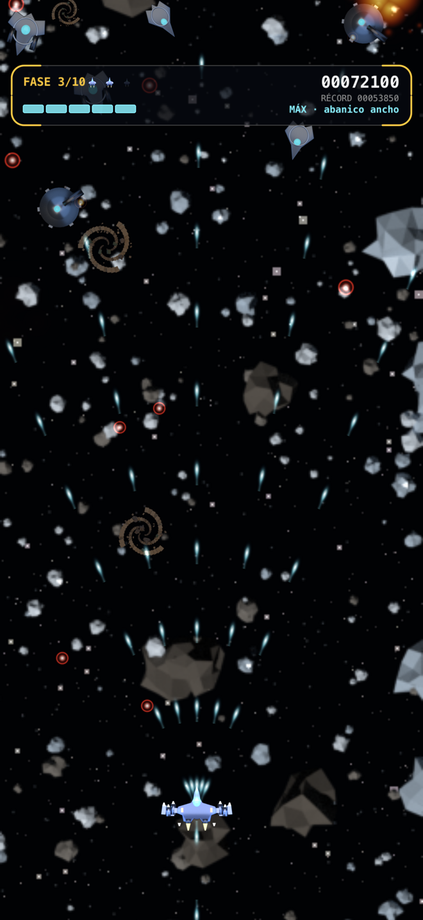
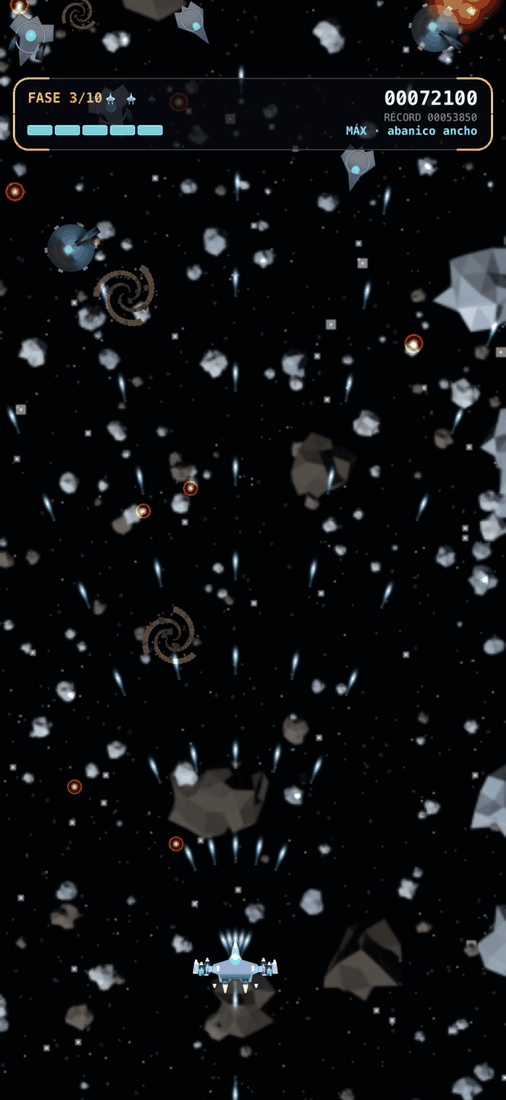
Franja de App Store en la portada y contadores al día

diff --git a/index.html b/index.html
@@ -156,7 +156,7 @@
   <div class="wrap">
     <div class="titulo-seccion rev">
       <h2>Mis apps</h2>
-      <p>Seis formas distintas de usar tu móvil sin regalar tus datos. Entra en cualquiera — y si te va la técnica, cada una esconde una sección "para curiosos" con sus tripas.</p>
+      <p>Ocho formas distintas de usar tu móvil sin regalar tus datos. Entra en cualquiera — y si te va la técnica, cada una esconde una sección "para curiosos" con sus tripas.</p>
     </div>
     <div class="apps-grid">
 
@@ -267,6 +267,55 @@
   </div>
 </section>
 
+<!-- Franja "en la App Store". Va SEPARADA de la vitrina a propósito: la vitrina
+     lleva a mis propias fichas, esta lleva a la tienda, que es lo que prueba que
+     están publicadas de verdad. Aquí solo salen las siete del App Store — MuSeA
+     (Mac, fuera de la tienda) y Gemelos (web) no, porque quien pinchara las
+     buscaría en el App Store y no las encontraría. Los enlaces usan la forma
+     corta apps.apple.com/app/idXXXX, que redirige a la tienda del visitante. -->
+<section class="tienda" id="appstore">
+  <div class="wrap">
+    <div class="titulo-seccion rev">
+      <h2>Las siete, en la App Store</h2>
+      <p>Publicadas bajo mi nombre y todas gratuitas. Este es el listado oficial de Apple, no el mío.</p>
+    </div>
+    <div class="tienda-rejilla rev">
+        <a href="https://apps.apple.com/app/id6774833296" target="_blank" rel="noopener">
+          <img src="https://is1-ssl.mzstatic.com/image/thumb/Purple211/v4/8e/40/7a/8e407a4f-9acc-58d7-32d8-238d1193bee2/AppIcon-0-0-1x_U007ephone-0-1-85-220.png/128x128bb.jpg" alt="SyntheticMind" loading="lazy">
+          <span>SyntheticMind</span>
+        </a>
+        <a href="https://apps.apple.com/app/id6748546482" target="_blank" rel="noopener">
+          <img src="https://is1-ssl.mzstatic.com/image/thumb/Purple211/v4/b8/6d/ca/b86dca0c-19b8-f1c6-e2ab-cde97e799351/AppIcon-0-0-1x_U007epad-0-1-85-220.png/128x128bb.jpg" alt="NeuroVocal Studio" loading="lazy">
+          <span>NeuroVocal Studio</span>
+        </a>
+        <a href="https://apps.apple.com/app/id6761835018" target="_blank" rel="noopener">
+          <img src="https://is1-ssl.mzstatic.com/image/thumb/Purple211/v4/a7/39/cf/a739cf47-2b2b-734f-2761-186f62d339f5/AppIcon-0-0-1x_U007epad-0-1-85-220.png/128x128bb.jpg" alt="VoiceCoachAI" loading="lazy">
+          <span>VoiceCoachAI</span>
+        </a>
+        <a href="https://apps.apple.com/app/id6756328613" target="_blank" rel="noopener">
+          <img src="https://is1-ssl.mzstatic.com/image/thumb/Purple211/v4/61/b1/4f/61b14f1b-1e18-7cfd-af2a-4382b732e5a4/AppIcon-0-0-1x_U007epad-0-1-85-220.png/128x128bb.jpg" alt="NeoBlob" loading="lazy">
+          <span>NeoBlob</span>
+        </a>
+        <a href="https://apps.apple.com/app/id6768053282" target="_blank" rel="noopener">
+          <img src="https://is1-ssl.mzstatic.com/image/thumb/Purple221/v4/1c/1c/a9/1c1ca937-e7cb-6a88-bb3a-62b5ebc5504b/AppIcon-0-0-1x_U007epad-0-1-85-220.png/128x128bb.jpg" alt="NeonPulse" loading="lazy">
+          <span>NeonPulse</span>
+        </a>
+        <a href="https://apps.apple.com/app/id6795356219" target="_blank" rel="noopener">
+          <img src="img/salonrecreativo-icon.png" alt="Salón Recreativo" loading="lazy">
+          <span>Salón Recreativo</span>
+        </a>
+        <a href="https://apps.apple.com/app/id6810407525" target="_blank" rel="noopener">
+          <img src="img/cruzdeaguila-icon.png" alt="Cruz de Águila" loading="lazy">
+          <span>Cruz de Águila</span>
+        </a>
+    </div>
+    <div class="tienda-pie rev">
+      <a class="btn btn-primary" href="https://apps.apple.com/developer/roberto-blanco-gomez/id1824789786" target="_blank" rel="noopener">Ver mi página de desarrollador</a>
+      <span>Se abre en la App Store de tu país.</span>
+    </div>
+  </div>
+</section>
+
 <section class="plana" id="servicios">
   <div class="orbe" style="width:460px;height:460px;background:var(--verde);top:120px;left:35%"></div>
   <div class="wrap">
@@ -281,7 +330,7 @@
       </div>
       <div class="servicio rev"><span class="ic">📱</span>
         <h3>Desarrollo de apps iOS</h3>
-        <p>De la idea al App Store: diseño, Swift, IA on-device, optimización y publicación. Seis apps propias avalan el proceso completo.</p>
+        <p>De la idea al App Store: diseño, Swift, IA on-device, optimización y publicación. Siete apps propias avalan el proceso completo.</p>
       </div>
       <div class="servicio rev"><span class="ic">⚡</span>
         <h3>Web con IA sin servidores</h3>
@@ -317,7 +366,7 @@
 <footer>
   <div class="wrap">
     Roberto Blanco — desarrollador indie · España<br>
-    <a href="https://apps.apple.com/es/developer/roberto-blanco-gomez/id1824789786">Todas mis apps en el App Store</a>
+    <a href="https://apps.apple.com/developer/roberto-blanco-gomez/id1824789786">Todas mis apps en el App Store</a>
     · <a href="https://robertoblanco-lab.github.io/syntheticmind-web/">SyntheticMind Web</a><br>
     <div id="visitas" style="margin-top:12px; opacity:.55; font-size:.85rem" hidden></div>
   </div>

diff --git a/en/index.html b/en/index.html
@@ -150,7 +150,7 @@
   <div class="wrap">
     <div class="titulo-seccion rev">
       <h2>My apps</h2>
-      <p>Six ways to use your phone without giving your data away. Open any of them — and if you're into tech, each one hides a "for the curious" section with its inner workings.</p>
+      <p>Eight ways to use your phone without giving your data away. Open any of them — and if you're into tech, each one hides a "for the curious" section with its inner workings.</p>
     </div>
     <div class="apps-grid">
 
@@ -262,6 +262,55 @@
   </div>
 </section>
 
+<!-- Franja "en la App Store". Va SEPARADA de la vitrina a propósito: la vitrina
+     lleva a mis propias fichas, esta lleva a la tienda, que es lo que prueba que
+     están publicadas de verdad. Aquí solo salen las siete del App Store — MuSeA
+     (Mac, fuera de la tienda) y Gemelos (web) no, porque quien pinchara las
+     buscaría en el App Store y no las encontraría. Los enlaces usan la forma
+     corta apps.apple.com/app/idXXXX, que redirige a la tienda del visitante. -->
+<section class="tienda" id="appstore">
+  <div class="wrap">
+    <div class="titulo-seccion rev">
+      <h2>All seven, on the App Store</h2>
+      <p>Published under my own name, all of them free. This is Apple's official listing, not mine.</p>
+    </div>
+    <div class="tienda-rejilla rev">
+        <a href="https://apps.apple.com/app/id6774833296" target="_blank" rel="noopener">
+          <img src="https://is1-ssl.mzstatic.com/image/thumb/Purple211/v4/8e/40/7a/8e407a4f-9acc-58d7-32d8-238d1193bee2/AppIcon-0-0-1x_U007ephone-0-1-85-220.png/128x128bb.jpg" alt="SyntheticMind" loading="lazy">
+          <span>SyntheticMind</span>
+        </a>
+        <a href="https://apps.apple.com/app/id6748546482" target="_blank" rel="noopener">
+          <img src="https://is1-ssl.mzstatic.com/image/thumb/Purple211/v4/b8/6d/ca/b86dca0c-19b8-f1c6-e2ab-cde97e799351/AppIcon-0-0-1x_U007epad-0-1-85-220.png/128x128bb.jpg" alt="NeuroVocal Studio" loading="lazy">
+          <span>NeuroVocal Studio</span>
+        </a>
+        <a href="https://apps.apple.com/app/id6761835018" target="_blank" rel="noopener">
+          <img src="https://is1-ssl.mzstatic.com/image/thumb/Purple211/v4/a7/39/cf/a739cf47-2b2b-734f-2761-186f62d339f5/AppIcon-0-0-1x_U007epad-0-1-85-220.png/128x128bb.jpg" alt="VoiceCoachAI" loading="lazy">
+          <span>VoiceCoachAI</span>
+        </a>
+        <a href="https://apps.apple.com/app/id6756328613" target="_blank" rel="noopener">
+          <img src="https://is1-ssl.mzstatic.com/image/thumb/Purple211/v4/61/b1/4f/61b14f1b-1e18-7cfd-af2a-4382b732e5a4/AppIcon-0-0-1x_U007epad-0-1-85-220.png/128x128bb.jpg" alt="NeoBlob" loading="lazy">
+          <span>NeoBlob</span>
+        </a>
+        <a href="https://apps.apple.com/app/id6768053282" target="_blank" rel="noopener">
+          <img src="https://is1-ssl.mzstatic.com/image/thumb/Purple221/v4/1c/1c/a9/1c1ca937-e7cb-6a88-bb3a-62b5ebc5504b/AppIcon-0-0-1x_U007epad-0-1-85-220.png/128x128bb.jpg" alt="NeonPulse" loading="lazy">
+          <span>NeonPulse</span>
+        </a>
+        <a href="https://apps.apple.com/app/id6795356219" target="_blank" rel="noopener">
+          <img src="../img/salonrecreativo-icon.png" alt="Salón Recreativo" loading="lazy">
+          <span>Salón Recreativo</span>
+        </a>
+        <a href="https://apps.apple.com/app/id6810407525" target="_blank" rel="noopener">
+          <img src="../img/cruzdeaguila-icon.png" alt="Cruz de Águila" loading="lazy">
+          <span>Cruz de Águila</span>
+        </a>
+    </div>
+    <div class="tienda-pie rev">
+      <a class="btn btn-primary" href="https://apps.apple.com/developer/roberto-blanco-gomez/id1824789786" target="_blank" rel="noopener">Open my developer page</a>
+      <span>Opens in your country's App Store.</span>
+    </div>
+  </div>
+</section>
+
 <section class="plana" id="servicios">
   <div class="orbe" style="width:460px;height:460px;background:var(--verde);top:120px;left:35%"></div>
   <div class="wrap">
@@ -276,7 +325,7 @@
       </div>
       <div class="servicio rev"><span class="ic">📱</span>
         <h3>iOS app development</h3>
-        <p>From idea to the App Store: design, Swift, on-device AI, optimization and publishing. Six shipped apps of my own back the whole process.</p>
+        <p>From idea to the App Store: design, Swift, on-device AI, optimization and publishing. Seven shipped apps of my own back the whole process.</p>
       </div>
       <div class="servicio rev"><span class="ic">⚡</span>
         <h3>AI websites with zero servers</h3>
@@ -309,7 +358,7 @@
 <footer>
   <div class="wrap">
     Roberto Blanco — indie developer · Spain<br>
-    <a href="https://apps.apple.com/developer/id1824789786">All my apps on the App Store</a>
+    <a href="https://apps.apple.com/developer/roberto-blanco-gomez/id1824789786">All my apps on the App Store</a>
     · <a href="https://robertoblanco-lab.github.io/syntheticmind-web/">SyntheticMind Web</a>
     <div id="visitas" style="margin-top:12px; opacity:.55; font-size:.85rem" hidden></div>
   </div>

diff --git a/estilo.css b/estilo.css
@@ -216,3 +216,28 @@ footer a:hover { color: var(--verde); }
 .idiomas b { background: var(--verde); color: #05130a; font-weight: 800; }
 .idiomas a { color: var(--muted); font-weight: 700; }
 .idiomas a:hover { color: var(--text); }
+
+
+/* ── Franja "en la App Store" ──────────────────────────────────────────────
+   Rejilla que se adapta sola: siete iconos caben en una fila en escritorio y
+   se reparten en varias en el móvil sin media queries. El minmax es lo que
+   decide cuántos entran. */
+.tienda { padding: 76px 0; border-top: 1px solid var(--border); }
+.tienda-rejilla {
+  display: grid; gap: 22px 14px;
+  grid-template-columns: repeat(auto-fit, minmax(96px, 1fr));
+  max-width: 820px; margin: 0 auto;
+}
+.tienda-rejilla a {
+  display: flex; flex-direction: column; align-items: center; gap: 9px;
+  text-decoration: none; color: var(--muted); text-align: center;
+  font-size: .76rem; font-weight: 600; line-height: 1.3;
+  transition: color .25s ease, transform .25s ease;
+}
+.tienda-rejilla img {
+  width: 68px; height: 68px; border-radius: 16px; display: block;
+  border: 1px solid var(--border); background: var(--card);
+}
+.tienda-rejilla a:hover { color: var(--text); transform: translateY(-4px); }
+.tienda-pie { text-align: center; margin-top: 44px; }
+.tienda-pie span { display: block; color: var(--muted); font-size: .8rem; margin-top: 14px; }
